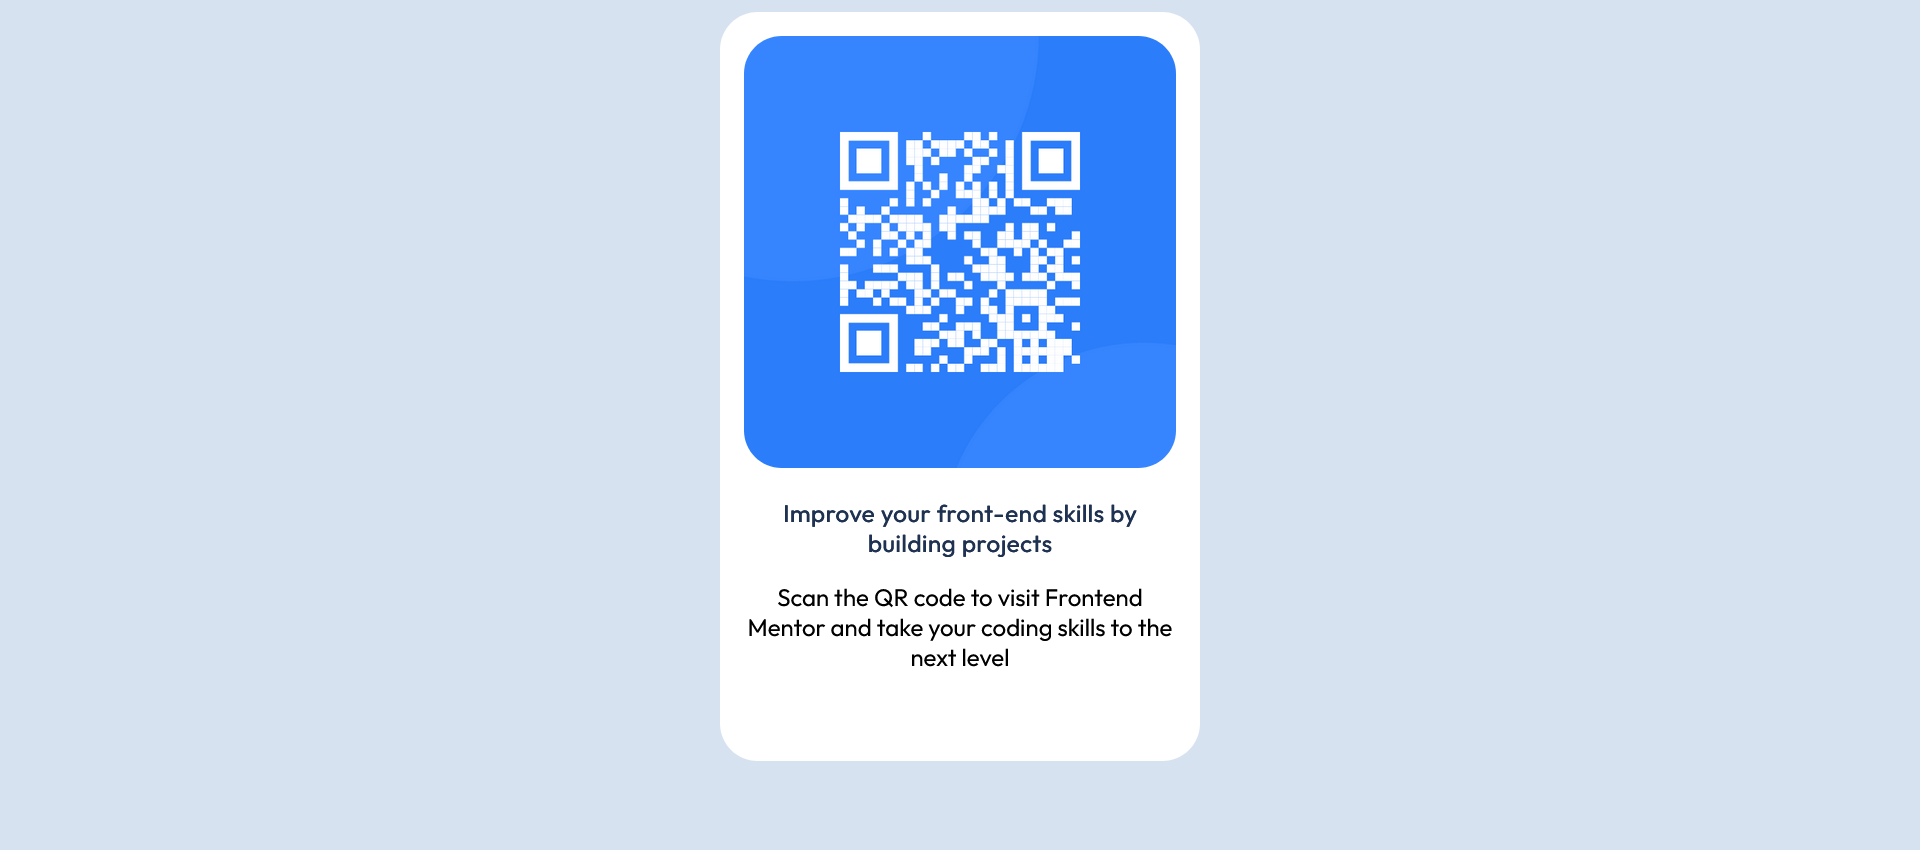
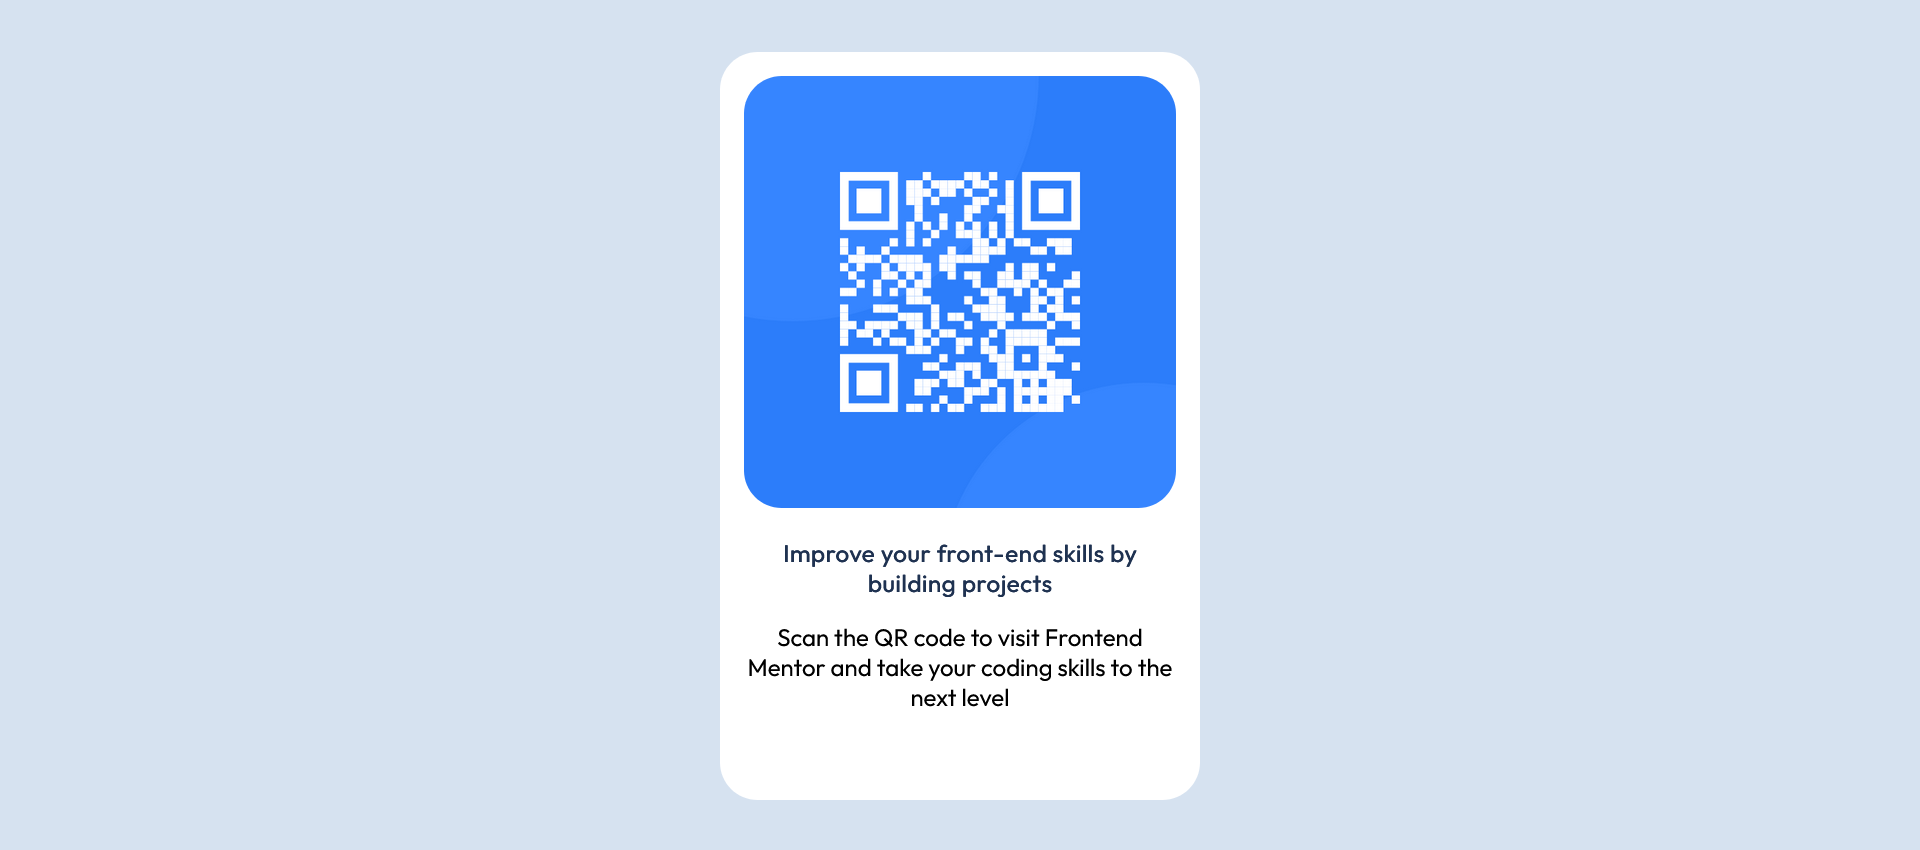
Modify CSS to horizontally and vertically center the div element

diff --git a/styles.css b/styles.css
@@ -7,9 +7,13 @@
 body {
   font-family: "Outfit";
   background-color: var(--slate300);
-  display: grid;
-  place-content: center;
   text-align: center;
+  margin: 0;
+  position: absolute;
+  top: 50%;
+  left: 50%;
+  -ms-transform: translate(-50%, -50%);
+  transform: translate(-50%, -50%);
 }
 div {
   box-sizing: border-box;

diff --git a/README.md b/README.md
@@ -1,103 +1,39 @@
 # Frontend Mentor - QR code component solution
 
-This is a solution to the [QR code component challenge on Frontend Mentor](https://www.frontendmentor.io/challenges/qr-code-component-iux_sIO_H). Frontend Mentor challenges help you improve your coding skills by building realistic projects. 
+This is a solution to the [QR code component challenge on Frontend Mentor](https://www.frontendmentor.io/challenges/qr-code-component-iux_sIO_H). Frontend Mentor challenges help you improve your coding skills by building realistic projects.
 
 ## Table of contents
 
 - [Overview](#overview)
   - [Screenshot](#screenshot)
-  - [Links](#links)
 - [My process](#my-process)
   - [Built with](#built-with)
   - [What I learned](#what-i-learned)
-  - [Continued development](#continued-development)
-  - [Useful resources](#useful-resources)
 - [Author](#author)
-- [Acknowledgments](#acknowledgments)
-
-**Note: Delete this note and update the table of contents based on what sections you keep.**
 
 ## Overview
 
+A QR Code Component Using HTML and CSS
+
 ### Screenshot
 
-![](./screenshot.jpg)
-
-Add a screenshot of your solution. The easiest way to do this is to use Firefox to view your project, right-click the page and select "Take a Screenshot". You can choose either a full-height screenshot or a cropped one based on how long the page is. If it's very long, it might be best to crop it.
-
-Alternatively, you can use a tool like [FireShot](https://getfireshot.com/) to take the screenshot. FireShot has a free option, so you don't need to purchase it. 
-
-Then crop/optimize/edit your image however you like, add it to your project, and update the file path in the image above.
-
-**Note: Delete this note and the paragraphs above when you add your screenshot. If you prefer not to add a screenshot, feel free to remove this entire section.**
-
-### Links
-
-- Solution URL: [Add solution URL here](https://your-solution-url.com)
-- Live Site URL: [Add live site URL here](https://your-live-site-url.com)
+![](./screenshot.png)
 
 ## My process
+
+- Wrote HTML code;
+- Handled the CSS sequentially;
 
 ### Built with
 
 - Semantic HTML5 markup
-- CSS custom properties
-- Flexbox
-- CSS Grid
-- Mobile-first workflow
-- [React](https://reactjs.org/) - JS library
-- [Next.js](https://nextjs.org/) - React framework
-- [Styled Components](https://styled-components.com/) - For styles
-
-**Note: These are just examples. Delete this note and replace the list above with your own choices**
+- CSS
 
 ### What I learned
 
-Use this section to recap over some of your major learnings while working through this project. Writing these out and providing code samples of areas you want to highlight is a great way to reinforce your own knowledge.
-
-To see how you can add code snippets, see below:
-
-```html
-<h1>Some HTML code I'm proud of</h1>
-```
-```css
-.proud-of-this-css {
-  color: papayawhip;
-}
-```
-```js
-const proudOfThisFunc = () => {
-  console.log('🎉')
-}
-```
-
-If you want more help with writing markdown, we'd recommend checking out [The Markdown Guide](https://www.markdownguide.org/) to learn more.
-
-**Note: Delete this note and the content within this section and replace with your own learnings.**
-
-### Continued development
-
-Use this section to outline areas that you want to continue focusing on in future projects. These could be concepts you're still not completely comfortable with or techniques you found useful that you want to refine and perfect.
-
-**Note: Delete this note and the content within this section and replace with your own plans for continued development.**
-
-### Useful resources
-
-- [Example resource 1](https://www.example.com) - This helped me for XYZ reason. I really liked this pattern and will use it going forward.
-- [Example resource 2](https://www.example.com) - This is an amazing article which helped me finally understand XYZ. I'd recommend it to anyone still learning this concept.
-
-**Note: Delete this note and replace the list above with resources that helped you during the challenge. These could come in handy for anyone viewing your solution or for yourself when you look back on this project in the future.**
+I learned when it is necessary to use classes, elements and id tags while dealing with css. I also practised how to use figma.
 
 ## Author
 
-- Website - [Add your name here](https://www.your-site.com)
-- Frontend Mentor - [@yourusername](https://www.frontendmentor.io/profile/yourusername)
-- Twitter - [@yourusername](https://www.twitter.com/yourusername)
-
-**Note: Delete this note and add/remove/edit lines above based on what links you'd like to share.**
-
-## Acknowledgments
-
-This is where you can give a hat tip to anyone who helped you out on this project. Perhaps you worked in a team or got some inspiration from someone else's solution. This is the perfect place to give them some credit.
-
-**Note: Delete this note and edit this section's content as necessary. If you completed this challenge by yourself, feel free to delete this section entirely.**
+- Frontend Mentor - [@enochmwanga](https://www.frontendmentor.io/profile/enochmwanga)
+-
